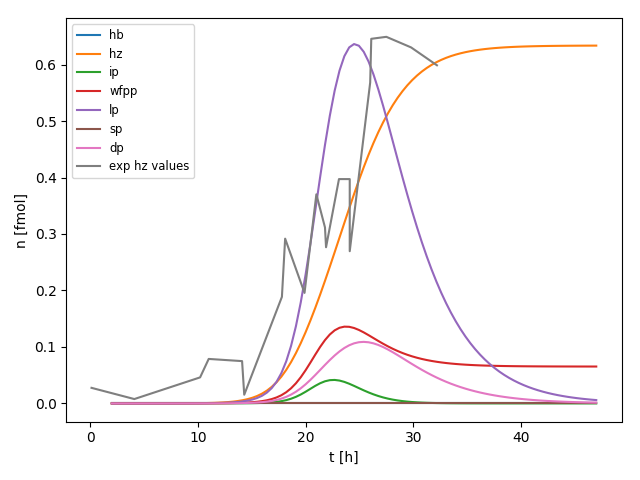
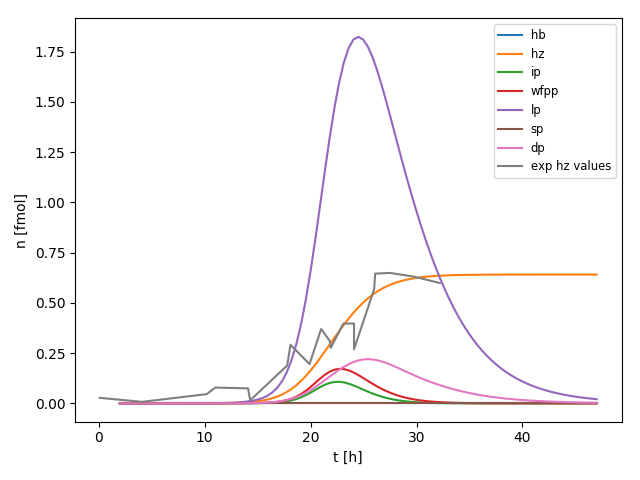
added end based enzyme integration, fixed fpp generation

diff --git a/odesystem2.py b/odesystem2.py
@@ -107,19 +107,28 @@ def derivative(abundances, t):
                     n = get_number_of_cuts(enzyme, length_of_substrate)
                     length_of_fragment1 = length_of_substrate
                     # length of one of the products of current cut
-                    while (length_of_fragment1 - enzyme.stepSize) > 0:
-                        length_of_fragment1 -= enzyme.stepSize
-                        length_of_fragment2 = length_of_substrate - length_of_fragment1
-                        if length_of_fragment1 >= length_of_fragment2:
-                            # longer fragment maintains fpp
-                            index_of_fragment1 = names[str(length_of_fragment1)+'wFpp']
-                            index_of_fragment2 = names[str(length_of_fragment2)]
-                        else:
+                    if enzyme is fal2:  # the fpp is no longer part of any peptide, both are added to non fpp array
+                        while (length_of_fragment1 - enzyme.stepSize) > 0:
+                            length_of_fragment1 -= enzyme.stepSize
+                            length_of_fragment2 = length_of_substrate - length_of_fragment1
                             index_of_fragment1 = names[str(length_of_fragment1)]
-                            index_of_fragment2 = names[str(length_of_fragment2)+'wFpp']
-                        abundance_change_of_fragments = p / n * max_enzyme_abundance * k_cat_k_m * concentrations[i]
-                        abundance_changes[index_of_fragment1] += abundance_change_of_fragments
-                        abundance_changes[index_of_fragment2] += abundance_change_of_fragments
+                            index_of_fragment2 = names[str(length_of_fragment2)]
+                            abundance_change_of_fragments = p / n * max_enzyme_abundance * k_cat_k_m * concentrations[i]
+                            abundance_changes[index_of_fragment1] += abundance_change_of_fragments
+                            abundance_changes[index_of_fragment2] += abundance_change_of_fragments
+                    else:
+                        while (length_of_fragment1 - enzyme.stepSize) > 0:  # longer fragment maintains fpp (if-part)
+                            length_of_fragment1 -= enzyme.stepSize
+                            length_of_fragment2 = length_of_substrate - length_of_fragment1
+                            if length_of_fragment1 >= length_of_fragment2:
+                                index_of_fragment1 = names[str(length_of_fragment1)+'wFpp']
+                                index_of_fragment2 = names[str(length_of_fragment2)]
+                            else:
+                                index_of_fragment1 = names[str(length_of_fragment1)]
+                                index_of_fragment2 = names[str(length_of_fragment2)+'wFpp']
+                            abundance_change_of_fragments = p / n * max_enzyme_abundance * k_cat_k_m * concentrations[i]
+                            abundance_changes[index_of_fragment1] += abundance_change_of_fragments
+                            abundance_changes[index_of_fragment2] += abundance_change_of_fragments
         if enzyme.indices[1] != 'None':  # operates on sequences without fpp
             start_index = enzyme.indices[1][0]
             end_index = enzyme.indices[1][1]
@@ -133,7 +142,10 @@ def derivative(abundances, t):
                     abundance_changes[i] += -p * max_enzyme_abundance * k_cat_k_m * concentrations[i]
                     # decay of substrate
                     length_of_substrate = lengths[i]
-                    n = get_number_of_cuts(enzyme, length_of_substrate)
+                    if enzyme.endBased:
+                        n = 1  # end based enzymes cut only once at N terminus of protein
+                    else:
+                        n = get_number_of_cuts(enzyme, length_of_substrate)
                     length_of_fragment1 = length_of_substrate
                     # length of one of the products of current cut
                     while (length_of_fragment1 - enzyme.stepSize) > 0:
@@ -144,6 +156,8 @@ def derivative(abundances, t):
                         abundance_change_of_fragments = p / n * max_enzyme_abundance * k_cat_k_m * concentrations[i]
                         abundance_changes[index_of_fragment1] += abundance_change_of_fragments
                         abundance_changes[index_of_fragment2] += abundance_change_of_fragments
+                        if enzyme.endBased:
+                            break  # simulates only one cut for end based enzymes
 
     return abundance_changes
 

diff --git a/enzymes2.py b/enzymes2.py
@@ -26,11 +26,11 @@ types = ['Initial peptidase', 'Long peptide peptidase', 'Dipeptidyl aminopeptida
 # -1 is for other types that should not be processed by a function requiring types
 plas1Concentration = 30 * 10**(-6)
 iPepConcentration = 30 * 10**(-6)
-fal2Concentration = 30 * 10**(-6)
+fal2Concentration = 50 * 10**(-6)
 hdpConcentration = 50 * 10**(-6)
-lpPepConcentration = 30 * 10**(-6)
-dpapConcentration = 30 * 10**(-6)
-apConcentration = 50 * 10**(-6)
+lpPepConcentration = 50 * 10**(-6)
+dpapConcentration = 50 * 10**(-6)
+apConcentration = 80 * 10**(-6)
 
 
 dfProt = pd.read_excel('proteome_plas.xlsx', sep='\t', header=1)  # dataframe for protein abundance

diff --git a/foodvacuole.py b/foodvacuole.py
@@ -3,7 +3,7 @@ from hostcell import get_hb_concentration
 
 INITIAL_VOLUME = 0.5  # in fL
 # TODO: concentrating factor bestimmen (Verhältnis Volumenzunahme Parasit / Vacuole)
-CONCENTRATING_FACTOR = 0.37  # vesicle volume lost through osmosis
+CONCENTRATING_FACTOR = 1  # vesicle volume lost through osmosis
 UCF_TO_FMOL = 10 * 10**(-3)
 
 def get_volume(t):
